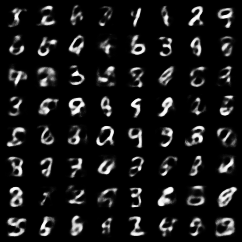
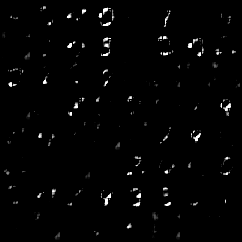
reduction=sum for BCELoss is critical for vae to converge

diff --git a/vae_test2.py b/vae_test2.py
@@ -5,7 +5,7 @@ from    torch import nn, optim
 from    torch.nn import functional as F
 from    torchvision import datasets, transforms
 from    torchvision.utils import save_image
-
+import  visdom
 
 
 parser = argparse.ArgumentParser(description='VAE MNIST Example')
@@ -46,14 +46,38 @@ class VAE(nn.Module):
     def __init__(self):
         super(VAE, self).__init__()
 
-        self.fc1 = nn.Linear(784, 400)
-        self.fc21 = nn.Linear(400, 20)
-        self.fc22 = nn.Linear(400, 20)
-        self.fc3 = nn.Linear(20, 400)
-        self.fc4 = nn.Linear(400, 784)
+
+        self.fc21 = nn.Linear(32, 8)
+        self.fc22 = nn.Linear(32, 8)
+
+        # [b, imgc, imgsz, imgsz] => [b, h_c, h_d, h_d]
+        self.encoder = nn.Sequential(
+            nn.Conv2d(1, 16, 3, stride=3, padding=1),  # b, 16, 10, 10
+            nn.ReLU(True),
+            nn.MaxPool2d(2, stride=2),  # b, 16, 5, 5
+            nn.Conv2d(16, 8, 3, stride=2, padding=1),  # b, 8, 3, 3
+            nn.ReLU(True),
+            nn.MaxPool2d(2, stride=1)  # b, 8, 2, 2
+        )
+
+        # [b, q_h_d, 1, 1] => [b, imgc, imgsz, imgsz]
+        self.decoder = nn.Sequential(
+            # Hout=(Hin−1)×stride[0] − 2×padding[0]+kernel_size[0]+output_padding[0]
+            nn.ConvTranspose2d(8, 16, 3, stride=2),  # b, 16, 5, 5
+            nn.ReLU(True),
+            nn.ConvTranspose2d(16, 8, 5, stride=3, padding=1),  # b, 8, 15, 15
+            nn.ReLU(True),
+            nn.ConvTranspose2d(8, 1, 5, stride=3, padding=1, output_padding=1),  # b, 1, 28, 28
+            # TODO: this can be removed? [-1~1]
+            # nn.Tanh()
+        )
 
     def encode(self, x):
-        h1 = F.relu(self.fc1(x))
+        # h1 = F.relu(self.fc1(x))
+        h1 = self.encoder(x)
+
+        h1 = h1.view(h1.size(0), -1)
+
         return self.fc21(h1), self.fc22(h1)
 
     def reparameterize(self, mu, logvar):
@@ -62,22 +86,27 @@ class VAE(nn.Module):
         return eps.mul(std).add_(mu)
 
     def decode(self, z):
-        h3 = F.relu(self.fc3(z))
-        return torch.sigmoid(self.fc4(h3))
+        # h3 = F.relu(self.fc3(z))
+        # return torch.sigmoid(self.fc4(h3))
+        z = z.view(z.size(0), -1, 1, 1)
+        x = self.decoder(z)
+        return x
 
     def forward(self, x):
-        mu, logvar = self.encode(x.view(-1, 784))
+        mu, logvar = self.encode(x)
         z = self.reparameterize(mu, logvar)
         return self.decode(z), mu, logvar
 
 
 model = VAE().to(device)
 optimizer = optim.Adam(model.parameters(), lr=1e-3)
-
+criteon = nn.BCEWithLogitsLoss(reduction='sum')
 
 # Reconstruction + KL divergence losses summed over all elements and batch
 def loss_function(recon_x, x, mu, logvar):
-    BCE = F.binary_cross_entropy(recon_x, x.view(-1, 784), reduction='sum')
+    # BCE = F.binary_cross_entropy_with_logits(recon_x, x, reduction='sum')
+
+    BCE = criteon(recon_x, x)
 
     # see Appendix B from VAE paper:
     # Kingma and Welling. Auto-Encoding Variational Bayes. ICLR, 2014
@@ -88,13 +117,14 @@ def loss_function(recon_x, x, mu, logvar):
     return BCE + KLD, BCE
 
 
-def train(epoch):
+def train(epoch, vis):
 
     model.train()
     train_loss = 0
 
     for batch_idx, (data, _) in enumerate(train_loader):
-        data = data.to(device)
+        data = data.to(device) # [128, 1, 28, 28]
+
         optimizer.zero_grad()
         recon_batch, mu, logvar = model(data)
         loss, loss_reconstruct = loss_function(recon_batch, data, mu, logvar)
@@ -102,6 +132,9 @@ def train(epoch):
         train_loss += loss.item()
         optimizer.step()
         if batch_idx % args.log_interval == 0:
+            # print(recon_batch.shape)
+            vis.images(torch.sigmoid(recon_batch).view(-1, 1, 28, 28), nrow=16, win='vae_test')
+
             print('Train Epoch: {} [{}/{} ({:.0f}%)]\tLoss: {:.6f}'.format(
                 epoch, batch_idx * len(data), len(train_loader.dataset),
                        100. * batch_idx / len(train_loader),
@@ -111,7 +144,7 @@ def train(epoch):
         epoch, train_loss / len(train_loader.dataset)))
 
 
-def test(epoch):
+def test(epoch, vis):
     model.eval()
     test_loss = 0
     with torch.no_grad():
@@ -131,11 +164,13 @@ def test(epoch):
 
 
 if __name__ == "__main__":
+    vis = visdom.Visdom(env='vae')
+
     for epoch in range(1, args.epochs + 1):
-        train(epoch)
-        test(epoch)
+        train(epoch, vis)
+        test(epoch, vis)
         with torch.no_grad():
-            sample = torch.randn(64, 20).to(device)
+            sample = torch.randn(64, 8).to(device)
             sample = model.decode(sample).cpu()
             save_image(sample.view(64, 1, 28, 28),
                        'results/sample_' + str(epoch) + '.png')

diff --git a/mnistNShot.py b/mnistNShot.py
@@ -43,14 +43,14 @@ class MnistNShot(Dataset):
                                                  # transforms.RandomHorizontalFlip(),
                                                  # transforms.RandomRotation(5),
                                                  transforms.ToTensor(),
-                                                 transforms.Normalize((0.5,), (0.5,))
+                                                 # transforms.Normalize((0.5,), (1.,))
                                                  ])
         else:
             self.transform = transforms.Compose([
                                                  # lambda x: Image.open(x).convert('RGB'),
                                                  transforms.Resize((self.imgsz, self.imgsz)),
                                                  transforms.ToTensor(),
-                                                 transforms.Normalize((0.5,), (0.5,))
+                                                 # transforms.Normalize((0.5,), (1.,))
                                                  ])
 
         db1 = DataLoader(datasets.MNIST(root, train=True, transform=self.transform, download=True),

diff --git a/vae.py b/vae.py
@@ -50,12 +50,16 @@ class VAE(nn.Module):
             nn.ReLU(True),
             nn.ConvTranspose2d(8, 1, 5, stride=3, padding=1, output_padding=1),  # b, 1, 28, 28
             # TODO: this can be removed? [-1~1]
-            nn.Tanh()
+            # nn.Tanh()
         )
 
 
         # for reconstruction loss
-        self.criteon = nn.MSELoss()
+        # self.criteon = nn.MSELoss()
+        # for [0~1]
+        # !!! sum is critical!
+        self.criteon = nn.BCEWithLogitsLoss(reduction='sum')
+
 
         # 1. get self.h_c, self.h_d
         h = self.encoder(torch.Tensor(2, imgc, imgsz, imgsz))
@@ -163,6 +167,7 @@ class VAE(nn.Module):
         # # get the prob of x, rescale x to [0~1]
         # loss_ll = x_dist.log_prob(0.5 * (x + 1)).sum() / batchsz
 
+        # with/without logits.
         x_hat = self.decoder(q_h)
         # the smaller, the higher likelihood.
         loss_ll = -self.criteon(x_hat, x)
@@ -193,6 +198,8 @@ class VAE(nn.Module):
         :return:
         """
         x_hat = self.decoder(q_h)
+
+        x_hat = F.sigmoid(x_hat)
 
         return x_hat
 

diff --git a/vae_train.py b/vae_train.py
@@ -47,6 +47,7 @@ def main(args):
             batch_size=args.task_num, shuffle=True)
 
         for batchidx, (spt_x, spt_y, qry_x, qry_y) in enumerate(db_train):
+            # print(torch.max(spt_x), torch.min(spt_x))
 
             spt_x, spt_y, qry_x, qry_y = spt_x.to(device), spt_y.to(device), qry_x.to(device), qry_y.to(device)
 
@@ -71,7 +72,7 @@ def main(args):
 
 
 
-
+            continue
 
         # clustering, visualization and classification
         db_test = DataLoader(
